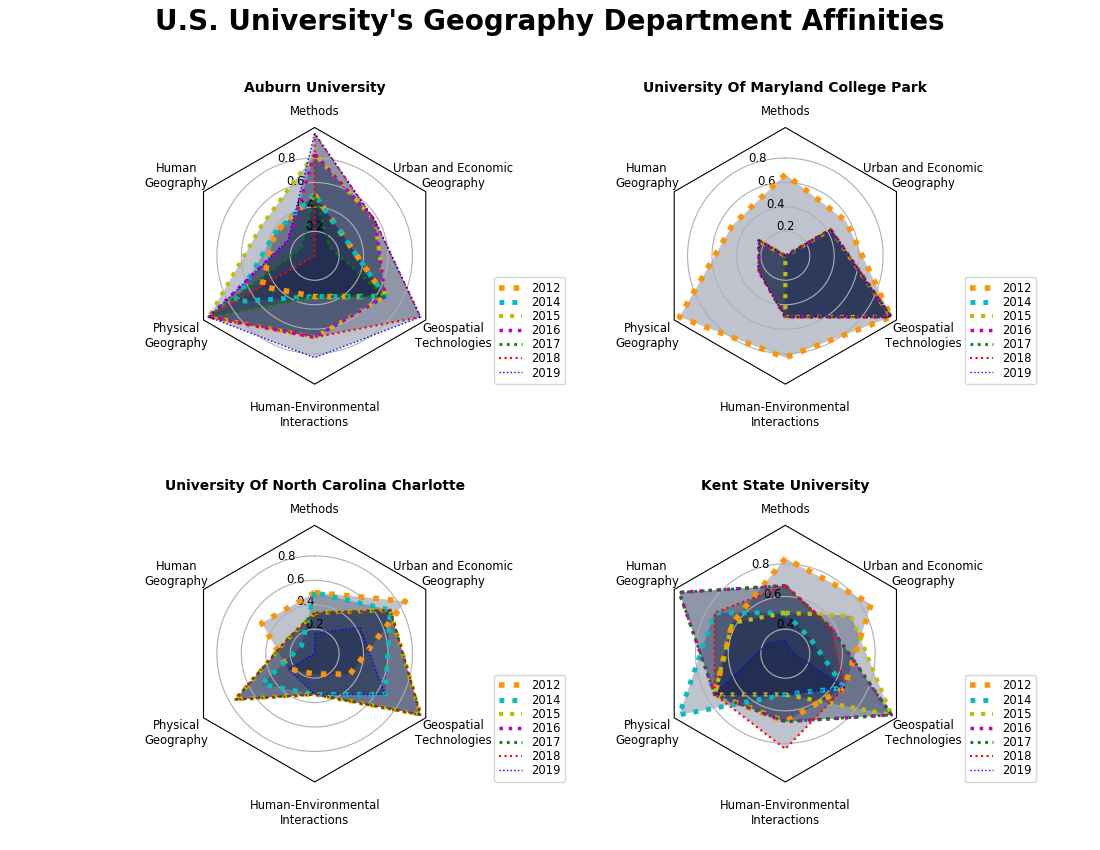
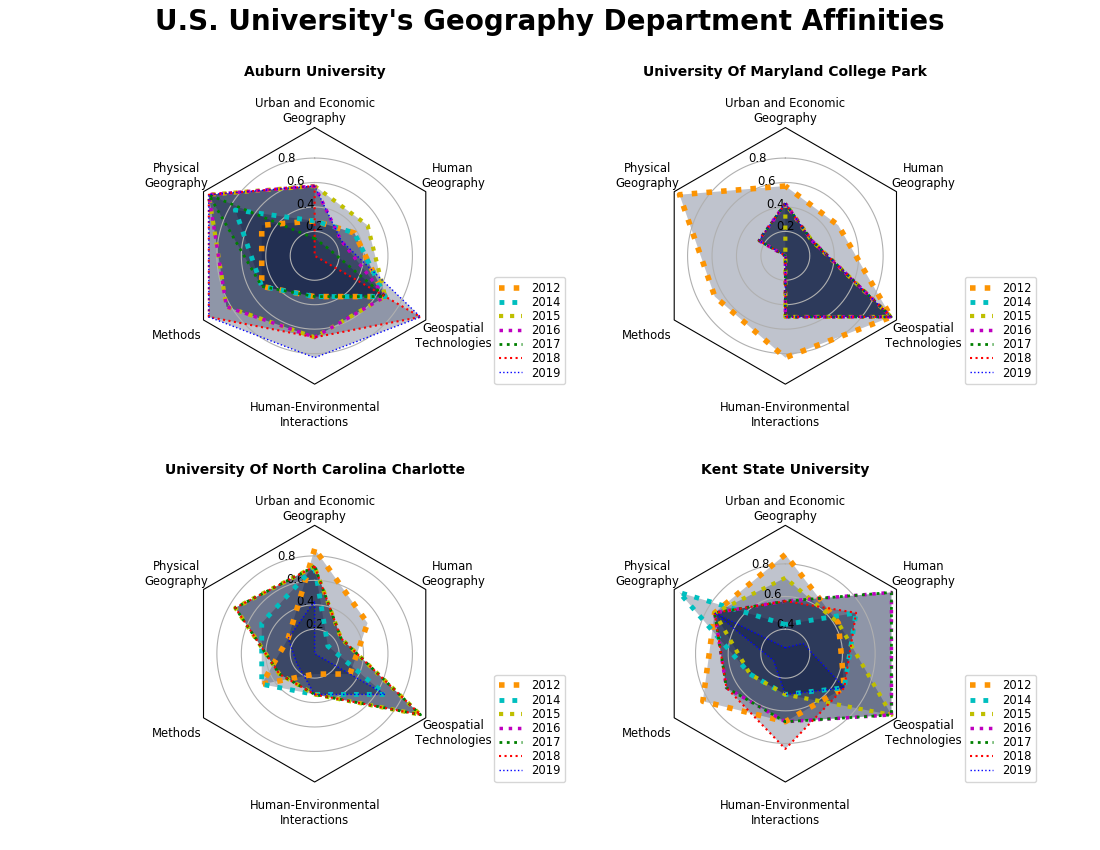
Removed spoke label error
Four universities are Auburn University, UMD, UNC Charlote, and Kent State

diff --git a/radar_chart_four_universities.py b/radar_chart_four_universities.py
@@ -120,18 +120,21 @@ data=[]
 for data_index in [1, 94, 143, 147]:
     data.append(data_list[data_index])
 
+'''Actual List:
+['Urban and Economic Geography', 'Physical Geography', 'Methods', 'Human-Environmental Interactions', 'Geospatial Technologies', 'Human Geography']
+'''
 if __name__ == '__main__':
     N = 6
     theta = radar_factory(N, frame='polygon')
 
     spoke_labels = data_list.pop(0)
     #Formatting tick names
-    spoke_labels[0] = '\n\nMethods'
-    spoke_labels[1] = 'Human\nGeography'
-    spoke_labels[2] = 'Physical\nGeography'
+    spoke_labels[0] = '\n\nUrban and Economic\nGeography'
+    spoke_labels[1] = 'Physical\nGeography'
+    spoke_labels[2] = 'Methods'
     spoke_labels[3] = 'Human-Environmental\nInteractions'
     spoke_labels[4] = 'Geospatial\nTechnologies'
-    spoke_labels[5] = 'Urban and Economic\nGeography'
+    spoke_labels[5] = 'Human\nGeography'
 
     #Plot four subplots to figure
     fig, axes = plt.subplots(figsize=(11, 8.5), nrows=2, ncols=2,
@@ -145,7 +148,7 @@ if __name__ == '__main__':
     for ax, (title, case_data) in zip(axes.flat, data):
         ax.tick_params(axis='x', which='major', grid_alpha=0, direction='out', labelsize='small', pad=12)
         ax.set_rgrids([0.2, 0.4, 0.6, 0.8], size='small')
-        ax.set_title(title.title(), weight='bold' ,size='medium', position=(0.5, 1.15),
+        ax.set_title(title.title(), weight='bold' ,size='medium', position=(0.5, 1.21),
                      horizontalalignment='center', verticalalignment='top')
         for d, color, widths in zip(case_data, colors, linewidths):
             ax.plot(theta, d, color=color, linewidth=widths, linestyle=':')
